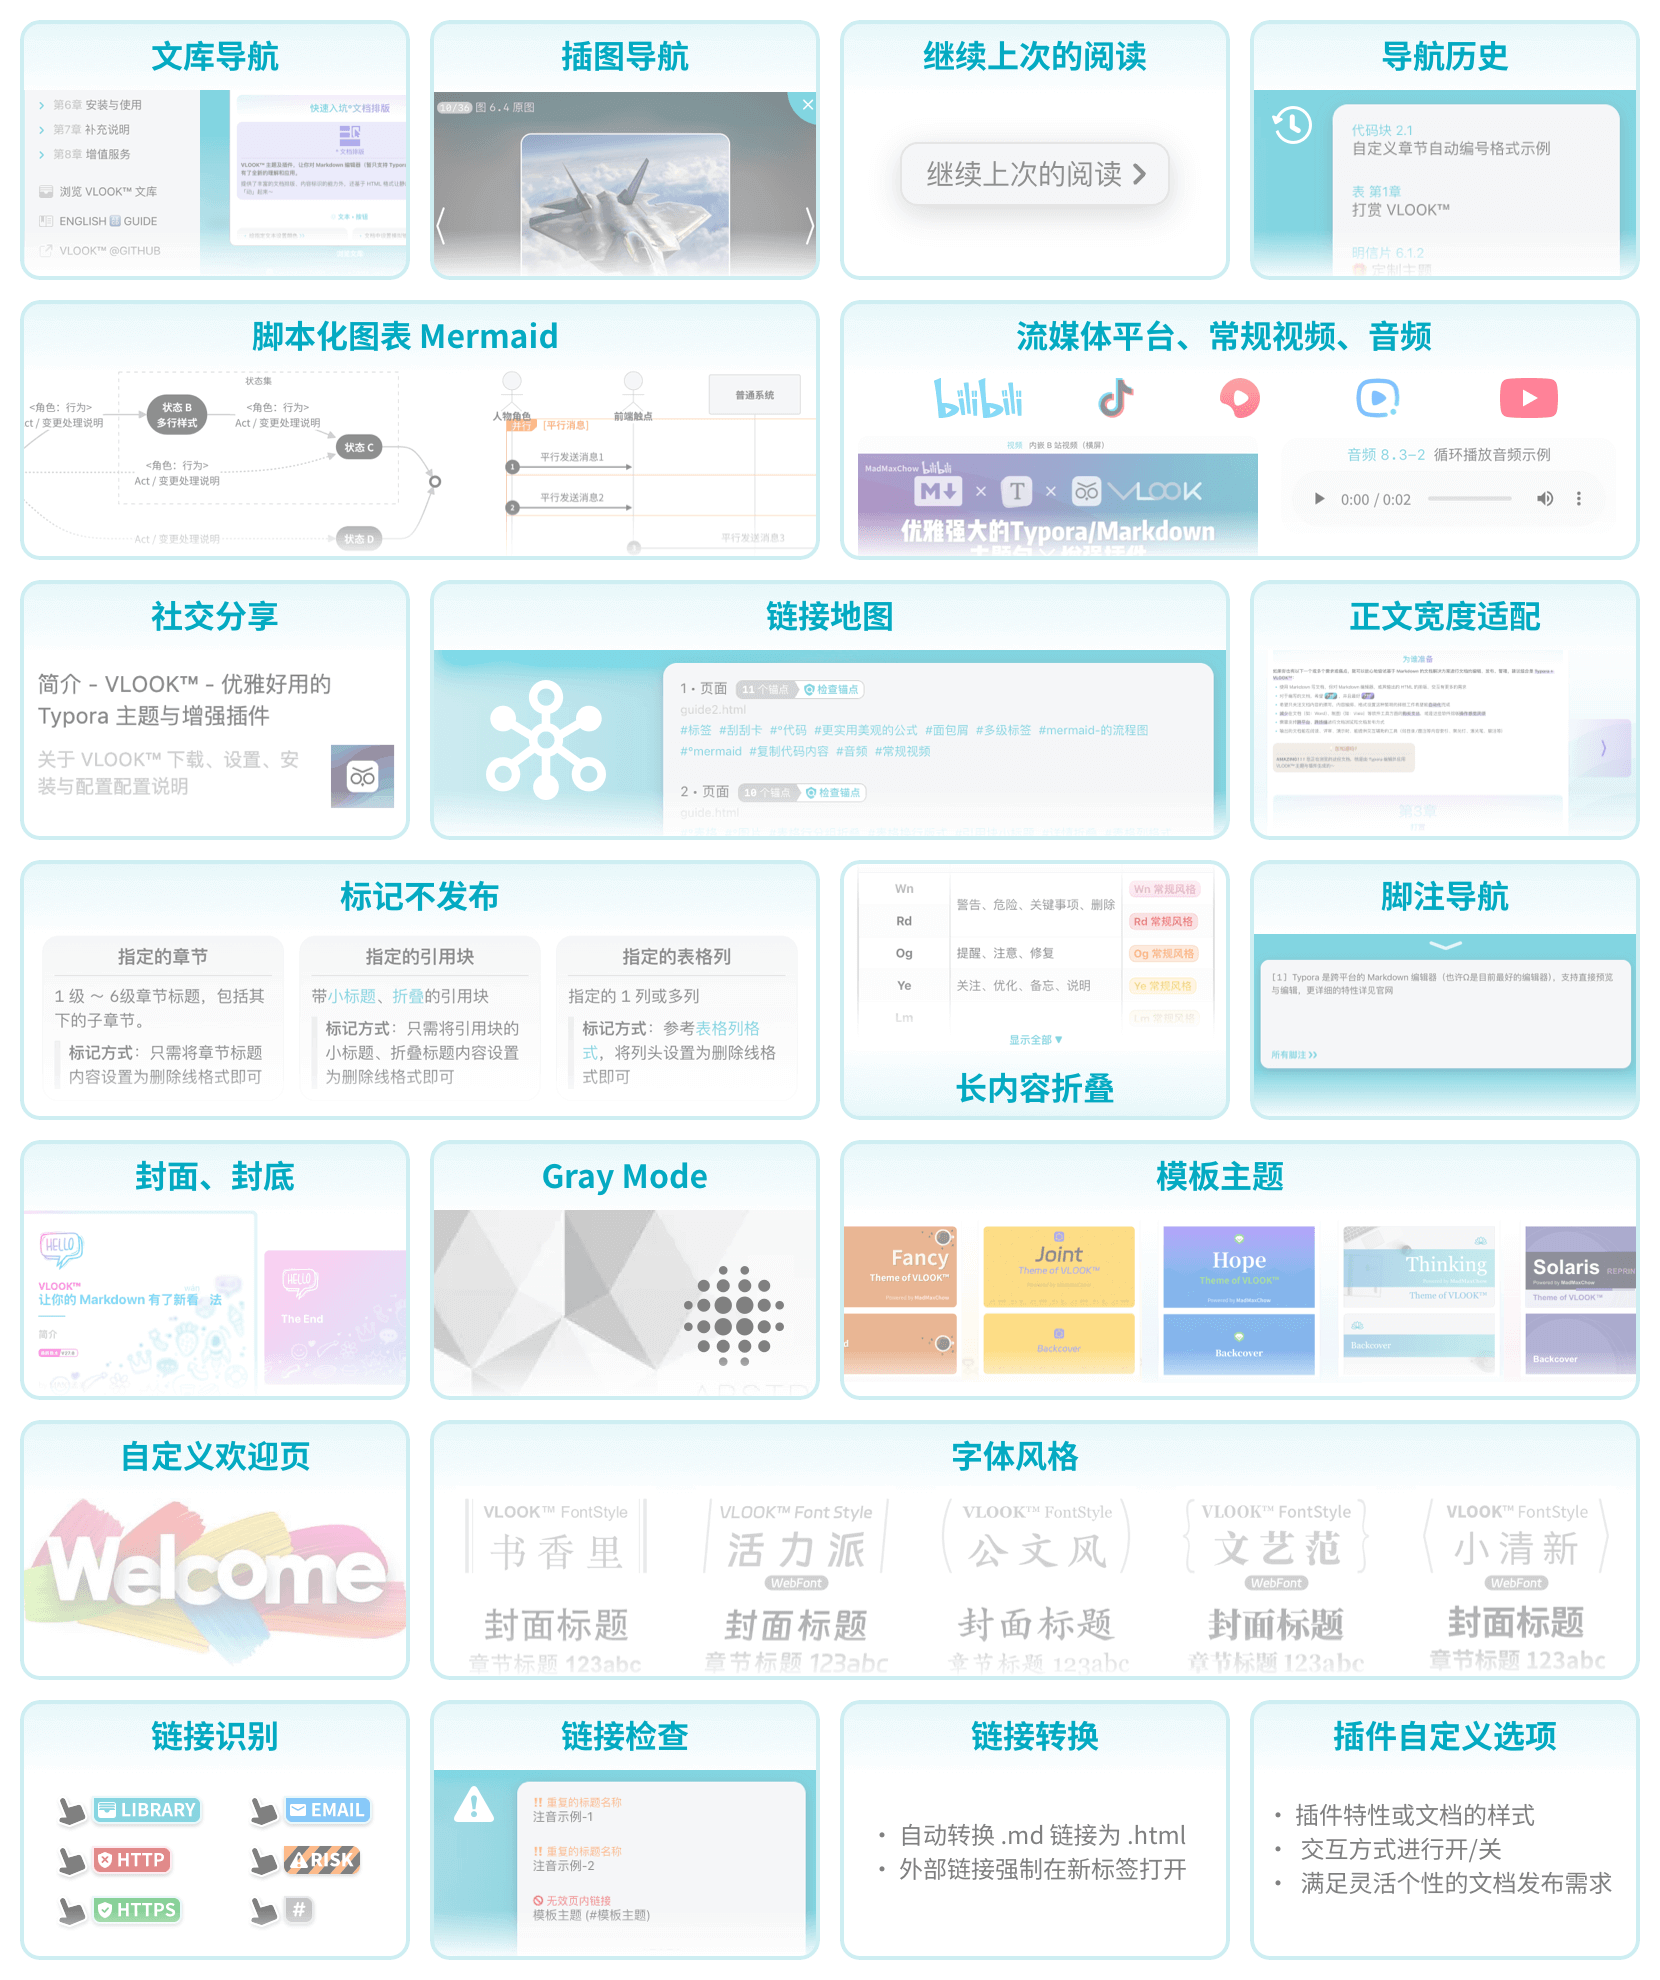
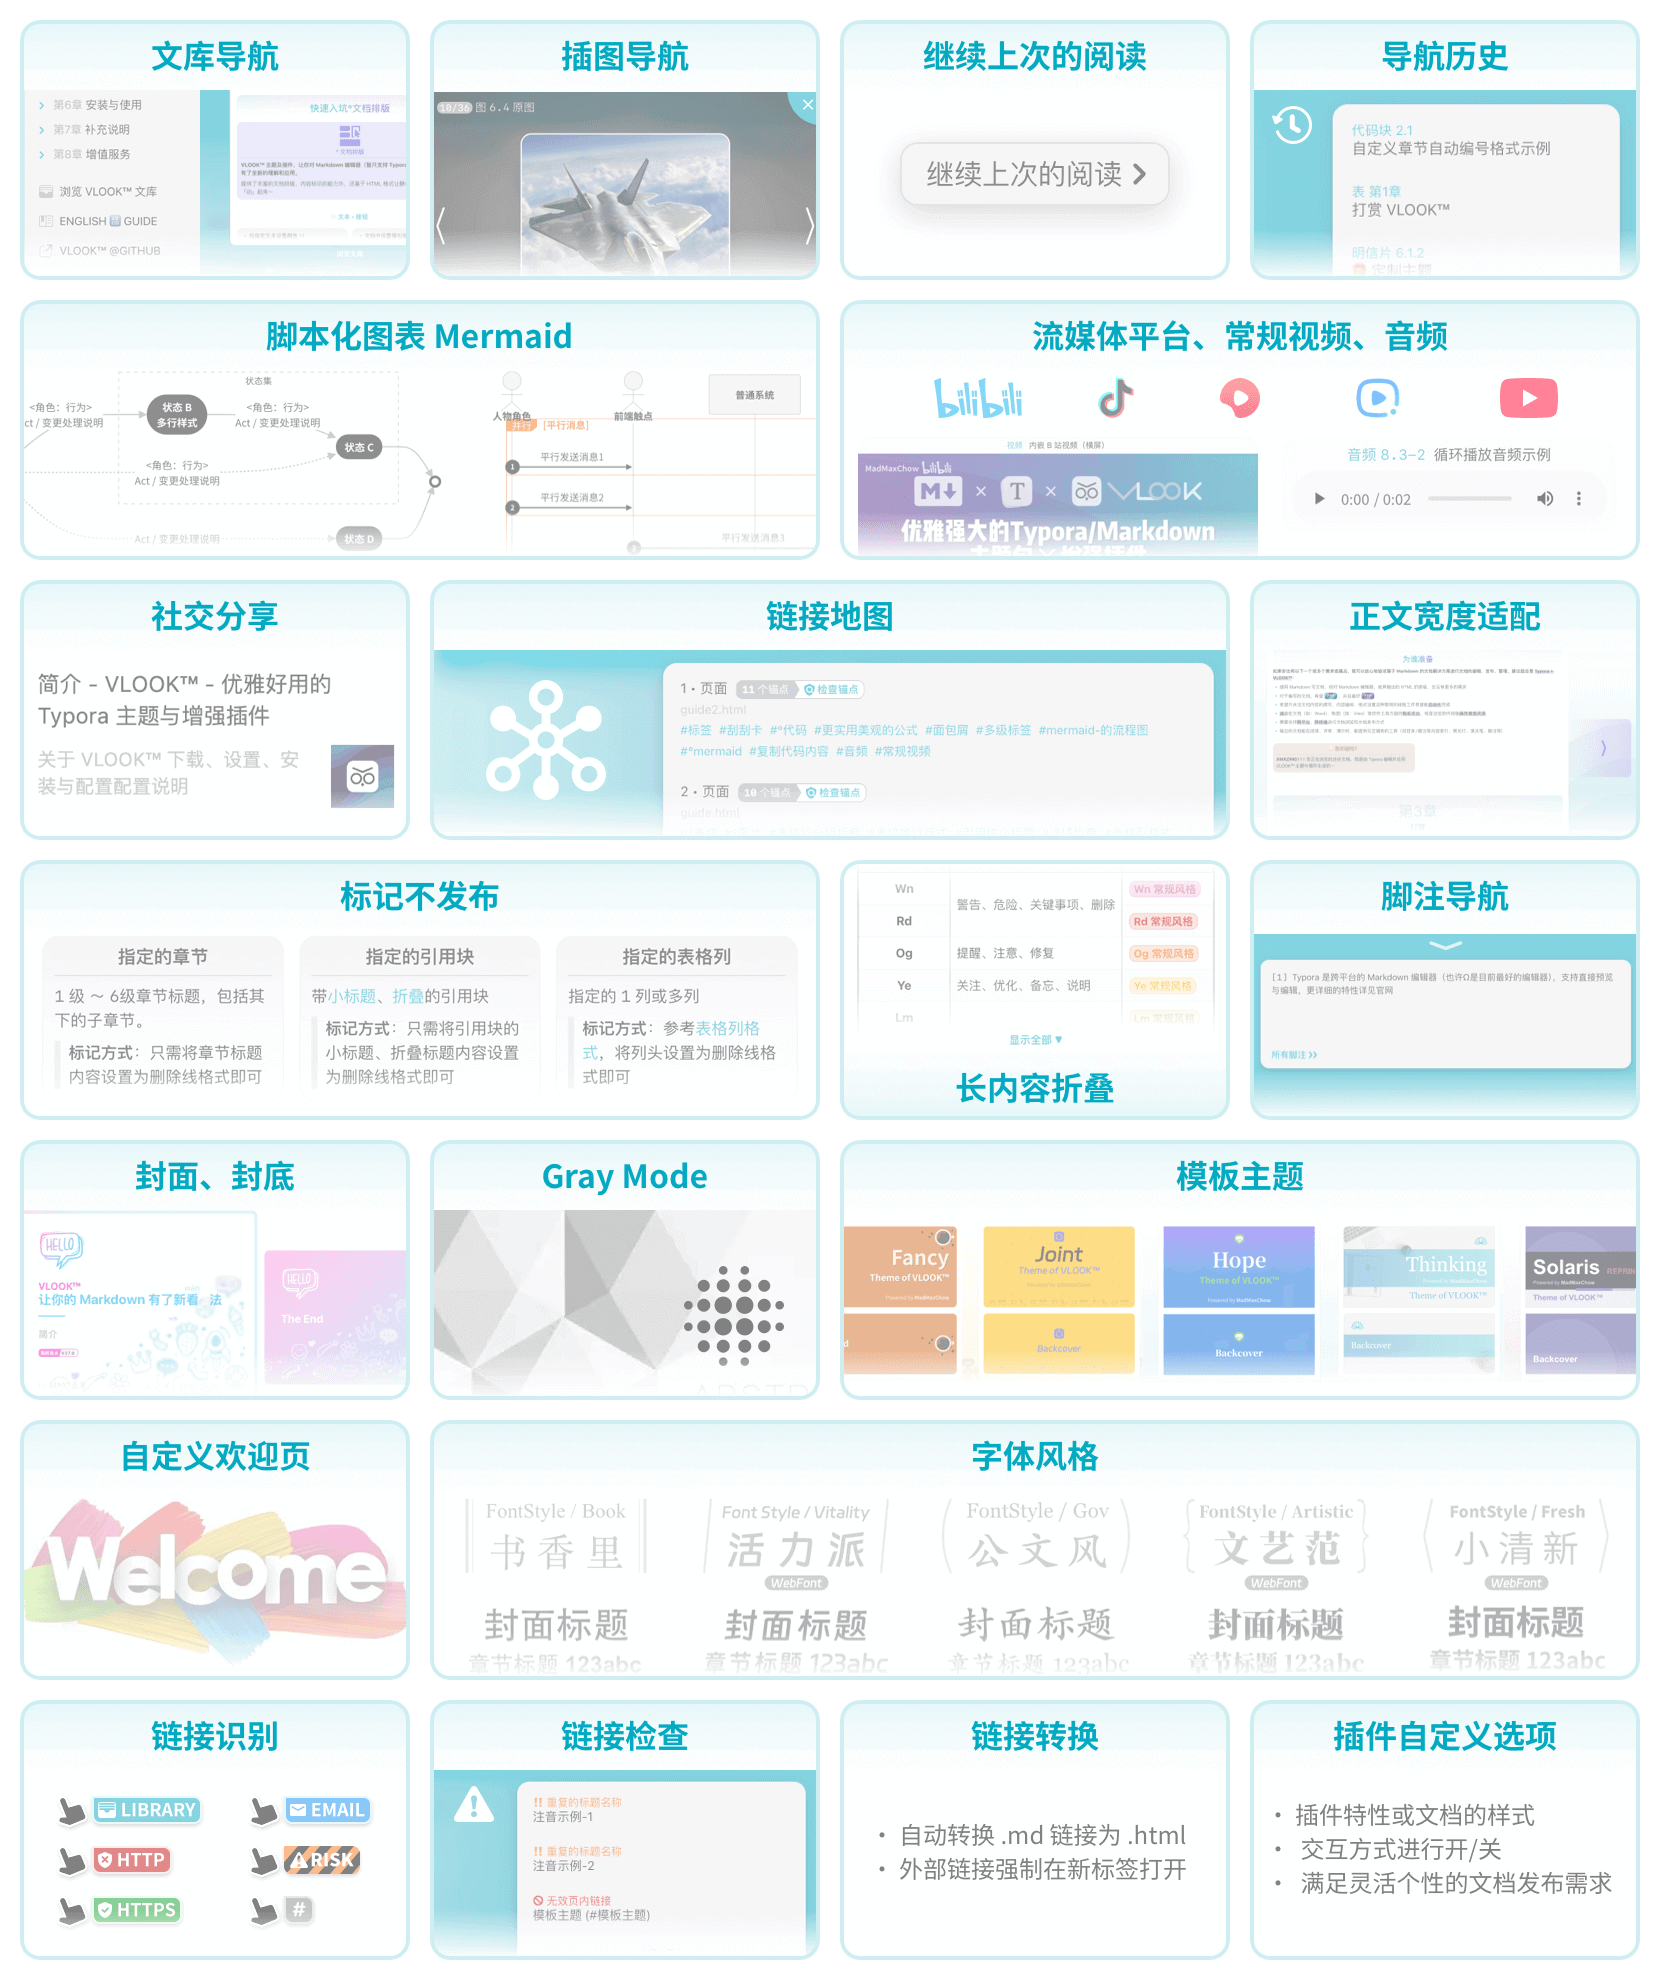
update README

diff --git a/released/samples/sample-no_cover-toc.md b/released/samples/sample-no_cover-toc.md
@@ -1,0 +1,23 @@
+---
+xtitle: 自定义导出 HTML 后的文档标题（无封面）
+xvlook-welcome: 自定义文档加载过程中显示的欢迎屏信息（须在导出设置中添加对应的 head 信息，详见 VLOOK™ 快速参考手册）
+---
+
+# 注意事项
+
+切记～先在 Typora 的「主题」菜单中，选择 VLOOK™ 的主题（所有以 `Vlook {XX名称}` 形式命名的主题）。
+
+# 你可以从这里开始 Markdown 之旅了
+
+###### 6 级标题（用于测试无封面时 toc 是否能完整显示）
+
+正文
+
+# 其他参考模板
+
+- VLOOK™ 参考手册的 md 源文件，位于目录 `released/samples` 下，非 `sample-` 开关的文件
+- VLOOK™ 推荐的更多参考范例文档片断，位于目录 `released/samples` 下
+
+# 希望为文档添加封面、封底？
+
+>  有关「封面、封底」，以及 VLOOK™ 的更多信息，详见《[VLOOK 快速参考手册](https://madmaxchow.github.io/VLOOK/guide.html#封面、封底)》

diff --git a/README-de.md b/README-de.md
@@ -61,11 +61,11 @@ Mit nur wenigen einfachen Schritten der Installation und Konfiguration kannst du
 
 ---
 
-![VLOOK™ ── 让你的 Markdown 有了新看(wán)法](https://vlook-doc.pages.dev/pic/vlook-screenshot-b01.png)
+![VLOOK™ ── 让你的 Markdown 有了新看(wán)法](https://vlook-doc.pages.dev/pic/vlook-screenshot-b01-en.png)
 
-![VLOOK™ ── 让你的 Markdown 有了新看(wán)法](https://vlook-doc.pages.dev/pic/vlook-screenshot-b02.png)
+![VLOOK™ ── 让你的 Markdown 有了新看(wán)法](https://vlook-doc.pages.dev/pic/vlook-screenshot-b02-en.png)
 
-![VLOOK™ ── 让你的 Markdown 有了新看(wán)法](https://vlook-doc.pages.dev/pic/vlook-screenshot-b03.png)
+![VLOOK™ ── 让你的 Markdown 有了新看(wán)法](https://vlook-doc.pages.dev/pic/vlook-screenshot-b03-en.png)
 
 
 ---

diff --git a/README-en.md b/README-en.md
@@ -62,11 +62,11 @@ With just a few simple steps of installation and configuration, you can also hav
 ---
 
 
-![VLOOK™ ── 让你的 Markdown 有了新看(wán)法](https://vlook-doc.pages.dev/pic/vlook-screenshot-b01.png)
+![VLOOK™ ── 让你的 Markdown 有了新看(wán)法](https://vlook-doc.pages.dev/pic/vlook-screenshot-b01-en.png)
 
-![VLOOK™ ── 让你的 Markdown 有了新看(wán)法](https://vlook-doc.pages.dev/pic/vlook-screenshot-b02.png)
+![VLOOK™ ── 让你的 Markdown 有了新看(wán)法](https://vlook-doc.pages.dev/pic/vlook-screenshot-b02-en.png)
 
-![VLOOK™ ── 让你的 Markdown 有了新看(wán)法](https://vlook-doc.pages.dev/pic/vlook-screenshot-b03.png)
+![VLOOK™ ── 让你的 Markdown 有了新看(wán)法](https://vlook-doc.pages.dev/pic/vlook-screenshot-b03-en.png)
 
 
 ---

diff --git a/README-fr.md b/README-fr.md
@@ -61,11 +61,11 @@ En effectuant simplement quelques étapes faciles d'installation et de configura
 
 ---
 
-![VLOOK™ ── 让你的 Markdown 有了新看(wán)法](https://vlook-doc.pages.dev/pic/vlook-screenshot-b01.png)
+![VLOOK™ ── 让你的 Markdown 有了新看(wán)法](https://vlook-doc.pages.dev/pic/vlook-screenshot-b01-en.png)
 
-![VLOOK™ ── 让你的 Markdown 有了新看(wán)法](https://vlook-doc.pages.dev/pic/vlook-screenshot-b02.png)
+![VLOOK™ ── 让你的 Markdown 有了新看(wán)法](https://vlook-doc.pages.dev/pic/vlook-screenshot-b02-en.png)
 
-![VLOOK™ ── 让你的 Markdown 有了新看(wán)法](https://vlook-doc.pages.dev/pic/vlook-screenshot-b03.png)
+![VLOOK™ ── 让你的 Markdown 有了新看(wán)法](https://vlook-doc.pages.dev/pic/vlook-screenshot-b03-en.png)
 
 
 ---
